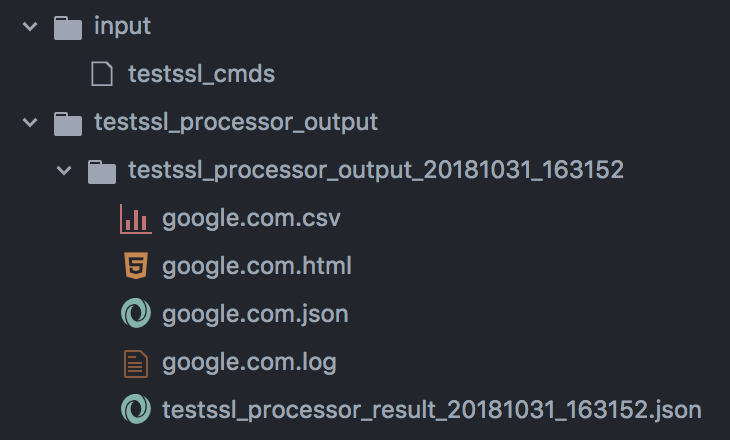
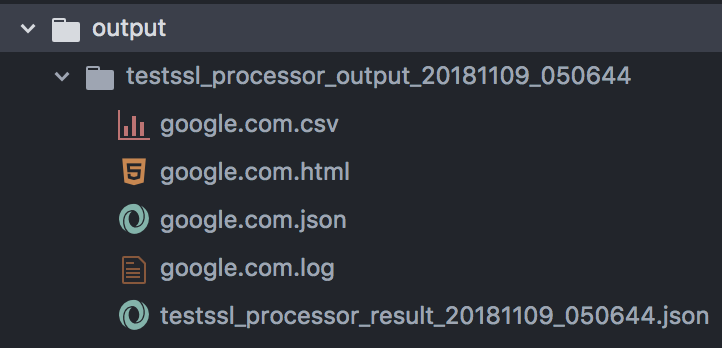
fix arg docs

Changed region(s): [[0.0, 0.0, 1.0, 0.431], [0.1524, 0.5747, 1.0, 0.977], [0.1524, 0.431, 0.4875, 0.546]]

diff --git a/README.md b/README.md
@@ -103,10 +103,13 @@ Run the command:
 ```
 git clone https://github.com/drwetter/testssl.sh
 
+mkdir input
+mkdir output
+
 ./testssl_processor.py \
   --input-dir ./input \
   --testssl-path-if-missing ./testssl.sh \
-  --output-dir ./testssl_processor_output \
+  --output-dir ./output \
   --filename-filter testssl_cmds \
   --result-format json \
   --output-dir-httpserver-port 8888
@@ -121,21 +124,18 @@ testssl.sh -S -P -p --fast --logfile google.com.log --jsonfile-pretty google.com
 Now the `testssl_processor.py` output shows:
 
 ```
-2018-10-31 16:31:38,792 - root - INFO - Monitoring for new testssl_cmds files at: ./input with filename filter: testssl_cmds
-2018-10-31 16:31:38,793 - root - INFO - Starting HTTP server listening on: 8888 and serving up: ./testssl_processor_output
-2018-10-31 16:31:47,179 - root - INFO - Responding to creation of file: ./input/testssl_cmds
-2018-10-31 16:31:52,184 - root - INFO - Processing testssl_cmds: './input/testssl_cmds'
-2018-10-31 16:31:52,212 - root - INFO - Processing testssl_cmd: 'testssl.sh -S -P -p --fast --logfile google.com.log --jsonfile-pretty
-google.com.json --csvfile google.com.csv --htmlfile google.com.html https://google.com'
-2018-10-31 16:32:52,328 - root - DEBUG - Command finished: exit code: 0 stdout.len:9194 stderr.len:0 cmd: /Users/bitsofinfo/Documents/xx/
-code/github.com/bitsofinfo/testssl.sh-processor/testssl.sh/testssl.sh -S -P -p --fast --logfile google.com.log --jsonfile-pretty google
-.com.json --csvfile google.com.csv --htmlfile google.com.html https://google.com
+2018-11-09 05:06:07,174 - root - INFO - Monitoring for new testssl_cmds files at: ./input with filename filter: testssl_cmds
+2018-11-09 05:06:07,175 - root - INFO - Starting HTTP server listening on: 8888 and serving up: ./output
+2018-11-09 05:06:39,403 - root - INFO - Responding to creation of file: ./input/testssl_cmds
+2018-11-09 05:06:44,408 - root - INFO - Processing testssl_cmds: './input/testssl_cmds'
+2018-11-09 05:06:44,431 - root - INFO - Processing testssl_cmd: 'testssl.sh -S -P -p --fast --logfile google.com.log --jsonfile-pretty google.com.json --csvfile google.com.csv --htmlfile google.com.html https://google.com'
+2018-11-09 05:07:40,826 - root - DEBUG - Command finished: exit code: 0 stdout.len:9014 stderr.len:0 cmd: /private/tmp/junk/testssl.sh-processor/testssl.sh/testssl.sh -S -P -p --fast --logfile google.com.log --jsonfile-pretty google.com.json --csvfile google.com.csv --htmlfile google.com.html https://google.com
 json
-2018-10-31 16:32:52,331 - root - DEBUG - Event 20181031_163152 Testssl processor result written to: ./testssl_processor_output/testssl_
-processor_output_20181031_163152/testssl_processor_result_20181031_163152.json
+2018-11-09 05:07:40,830 - root - DEBUG - Event 20181109_050644 Testssl processor result written to: ./output/testssl_processor_output_20181109_050644/testssl_processor_result_20181109_050644.json
+2018-11-09 05:07:40,924 - root - DEBUG - Pool closed and terminated
 ```
 
-The contents of our `input/` and `testssl_processor_output/` dirs is now as follows.
+The contents of our `input/` and `output/` dirs is now as follows.
 The actual output of the `testssl.sh` commands `--*file` directives are in the respective html/json files etc, while the output from the processor itself that invokes all the `testssl.sh` commands is in the `testssl_processor_result_*.json` files.
 
 ![](docs/dirs.png)
@@ -147,14 +147,14 @@ Contents of `testssl_processor_result_*.json`:
     {
         "success": true,
         "orig_cmd": "testssl.sh -S -P -p --fast --logfile google.com.log --jsonfile-pretty google.com.json --csvfile google.com.csv --htmlfile google.com.html https://google.com",
-        "timestamp": "20181031_163152",
+        "timestamp": "20181109_050644",
         "testssl_path_if_missing": "./testssl.sh",
-        "actual_cmd": "/Users/bitsofinfo/Documents/xx/code/github.com/bitsofinfo/testssl.sh-processor/testssl.sh/testssl.sh -S -P -p --fast --logfile google.com.log --jsonfile-pretty google.com.json --csvfile google.com.csv --htmlfile google.com.html https://google.com",
-        "cwd": "./testssl_processor_output/testssl_processor_output_20181031_163152",
+        "actual_cmd": "/private/tmp/junk/testssl.sh-processor/testssl.sh/testssl.sh -S -P -p --fast --logfile google.com.log --jsonfile-pretty google.com.json --csvfile google.com.csv --htmlfile google.com.html https://google.com",
+        "cwd": "./output/testssl_processor_output_20181109_050644",
         "returncode": 0,
-        "stdout": "\u001b[1m\n###########################################################\n    testssl.sh       3.0rc2 from \u001b[m\u001b[1mhttps://testssl.sh/dev/\u001b[m\n\u001b[1m    (\u001b[m\u001b[1;30me64519a 2018-10-31 09:02:05 -- \u001b[m\u001b[1m)\u001b[m\n\u001b[1m\n      This program is free software. Distribution and\n             modification under GPLv2 permitted.\n      USAGE w/o ANY WARRANTY. USE IT AT YOUR OWN RISK!\n\n       Please file bugs @ \u001b[m\u001b[1mhttps://testssl.sh/bugs/.........",
+        "stdout": "\u001b[1m\n###########################################################\n    testssl.sh       3.0rc2 from \u001b[m\u001b[1mhttps://testssl.sh/dev/\u001b[m\n\u001b[1m    (\u001b[m\u001b[1;30mafe1419 2018-11-08 22:00:47 -- \u001b[m\u001b[1m)\u001b[m\n\u001b[1m\n      This program is free software. Distribution and\n             modification under GPLv2 permitted.\n      USAGE w/o ANY WARRANTY. USE IT AT YOUR OWN RISK!\n\n       Please file bugs @ \u001b[m\u001b[1mhttps://testssl.sh/bugs/\u001b[m\n\u001b[1m\n###########################################################\u001b[m\n\n Using \"OpenSSL 1.0.2-chacha (1.0.2i-dev)\" [~183 ciphers]\n on XXXXXX:/private/tmp/junk/testssl.sh-processor/testssl.sh/bin/openssl.Darwin.x86_64\n (built: \"Sep  7 19:34:54 2016\", platform: \"darwin64-x86_64-cc\")\n\n\n\u001b[7m Start 2018-11-08 22:06:48        -->> 172.217.10.142:443 (google.com) <<--\u001b[m\n\n Further IP addresses:   2607:f8b0:4006:812::200e \n rDNS (172.217.10.142):  lga34s16-in-f14.1e100.net.\n Service detected: ...........",
         "stderr": "",
-        "exec_ms": 60116.021
+        "exec_ms": 56395.165
     }
 ]
 ```
